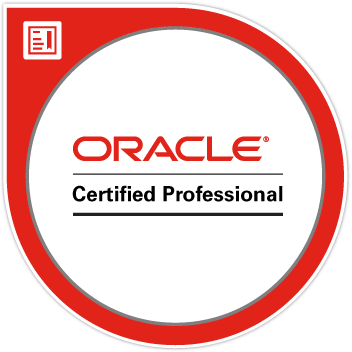
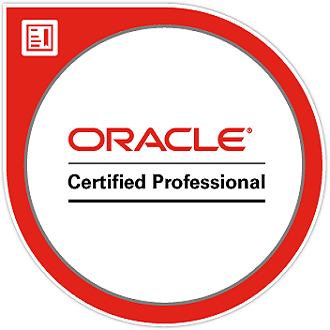
education carts in progress

diff --git a/css/main.css b/css/main.css
@@ -6,22 +6,41 @@
 }
 
 /* Global config -----------------------------------------*/
-body, a {
+
+body, p, a, i, h1, h2, h3, h4, h5, h6, strong {
   font-size: 10px;
   font-family: Roboto;
   color: #000;
+  line-height: 1.5em;
+  margin: 0;
+  padding: 0;
 }
+
 .container {
   width: 100%;
   margin: 0px;
   padding: 0px;
 }
 
-i{
+i {
   margin-right: 1rem;
-
 }
+
 .vertical-list {
+  /*display: -webkit-inline-flex;
+  -webkit-box-orient: inline-axis;
+  -webkit-flex-direction: row;
+  -webkit-justify-content: space-around;
+  -webkit-box-align: center;
+  -webkit-align-items: center;*/
+  /*display: -moz-inline-box;
+  -moz-box-orient: inline-axis;
+  -moz-box-direction: normal;
+  -moz-justify-content: space-around;
+  -moz-box-align: center;*/
+  /*display: -ms-inline-flexbox;
+  -ms-flex-direction: row;
+  -ms-flex-align: center;*/
   display: inline-flex;
   flex-direction: row;
   justify-content: space-around;
@@ -37,16 +56,19 @@ i{
 }
 
 /* nav ---------------------------------------------------*/
+
 .nav-top {
   width: 100%;
-  background-color: green;
+  background-color: #989baf85;
 }
-.nav-top a{
+
+.nav-top a {
   font-size: 1.7em;
-  padding: 1%;
+  padding: 1em;
 }
 
 /* header ------------------------------------------------*/
+
 header {
   width: 100%;
   background: white;
@@ -54,75 +76,98 @@ header {
   position: relative;
 }
 
-img.logo {
+.logo {
   width: 20%;
-  padding:3%;
-  border-radius: 50%;
+  padding: 1em;
 }
+
 header > section {
   width: 100%;
 }
 
-#goals{
+#goals {
   font-size: 1em;
   text-align: center;
   width: 90%;
   margin-left: 5%;
 }
+
 /* main --------------------------------------------------*/
+
 main {
   width: 100%;
 }
 
 /* detail section into main _____________________________*/
-.details{
-  background-color: red;
+
+.details {
   padding: 10px 0 10px 0;
   width: 100%;
   font-size: 1.7em;
-  border-bottom:2px solid #BDB8B8;
 }
 
-.details article{
+.details article {
   vertical-align: 1em;
 }
-#p-photo{
+
+#p-photo {
   width: 20%;
   border-radius: 50%;
-  padding:1%;
+  padding: 1%;
 }
 
 /* education section into main _____________________________*/
-.education{
-  background-color: pink;
+
+.education {
   width: 100%;
-  height:100px;
 }
 
-.educa-cart  h3{
-  border: 1px solid black;
-  width:10%;
+.educa-cart {
+  margin-bottom:3em;
+  box-shadow: 3px 3px 10px 5px #000,
+            0 0 4px rgba(0, 0, 0, .5) inset;
+  padding-bottom:1em;
 }
-.content , .content img {
-    border: 1px solid black;
+
+.educa-cart h5 {
+  width: 20%;
+  margin: 0  0 0 80%;
+  display: block;
+}
+
+.educa-cart img {
+  width: 6em;
+  margin-left: 1em;
+}
+
+.content {
+  display: inline-block;
+  width: 230px;
+  vertical-align: middle;
+  margin-left:1em;
 }
 
 /* footer ------------------------------------------------*/
-footer {
+
+footer, footer a, footer i, footer p {
   background-color: #000;
   color: #fff;
 }
+
 footer nav {
   width: 100%;
   padding: 2%;
 }
+
 footer nav a, footer a:visited {
   color: #fff;
   font-size: 3em;
 }
+
 footer nav a:hover {
   color: red;
 }
+
 .copyright {
   font-size: 2em;
   text-align: center;
@@ -130,12 +175,9 @@ footer nav a:hover {
 }
 
 /* Responsive Media Queries --------------------------*/
-@media (max-width: 425px) {
+
+@media screen and (max-width: 425px) {
   body {
     font-size: 8px;
   }
-#goals{
-    font-size:1em;
-  }
-
 }

diff --git a/index.html b/index.html
@@ -70,23 +70,35 @@
       <!-- End detail section -->
       <!-- Start education section -->
       <section class="education vertical-list">
-        <article class="1">
-          <div class="educa-cart">
-            <h5>1998-2005</h5>
-            <img src="" alt="img">
-            <div class="content horizontal-list">
-              <p><strong>Title:</strong>Telec.ing</p>
-              <p><strong>Escuela:</strong>UPM</p>
-              <p><strong>City:</strong>Madrid</p>
-              <p><strong>Desc:</strong>ddddddddddddddddddd</p>
-            </div>
+        <article class="educa-cart">
+          <h5>1998-2005</h5>
+          <img src="./media/img/euitt.png" alt="img">
+          <div class="content horizontal-list">
+            <p><strong>Title:</strong>Telec.ing</p>
+            <p><strong>Escuela:</strong>UPM</p>
+            <p><strong>City:</strong>Madrid</p>
+            <p><strong>Desc:</strong>ddddddddddjjjjjjjjjjjjddddddddd</p>
           </div>
         </article>
-        <article class="2">
-          <p>2</p>
+        <article class="educa-cart">
+          <h5>1998-2005</h5>
+          <img src="./media/img/euitt.png" alt="img">
+          <div class="content horizontal-list">
+            <p><strong>Title:</strong>Telec.ing</p>
+            <p><strong>Escuela:</strong>UPM</p>
+            <p><strong>City:</strong>Madrid</p>
+            <p><strong>Desc:</strong>ddddddddddddddddddd</p>
+          </div>
         </article>
-        <article class="3">
-          <p>3</p>
+        <article class="educa-cart">
+          <h5>1998-2005</h5>
+          <img src="./media/img/euitt.png" alt="img">
+          <div class="content horizontal-list">
+            <p><strong>Title:</strong>Telec.ing</p>
+            <p><strong>Escuela:</strong>UPM</p>
+            <p><strong>City:</strong>Madrid</p>
+            <p><strong>Desc:</strong>ddddddddddddddddddd</p>
+          </div>
         </article>
       </section>
       <!-- End education section  -->
